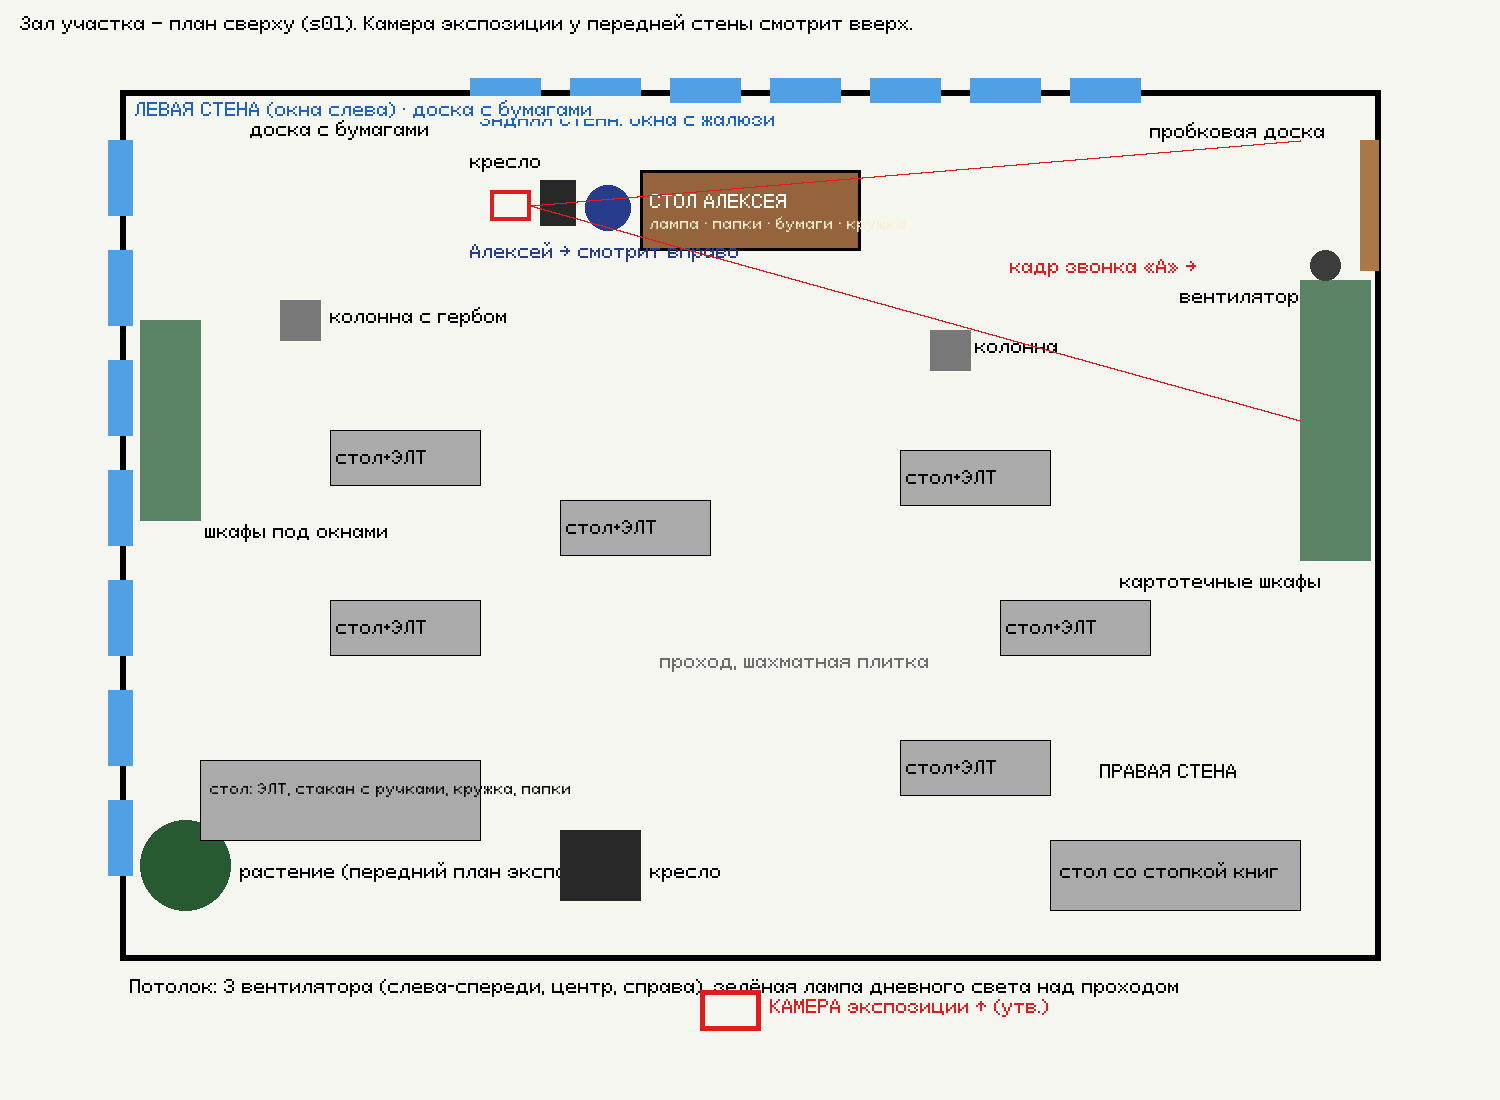
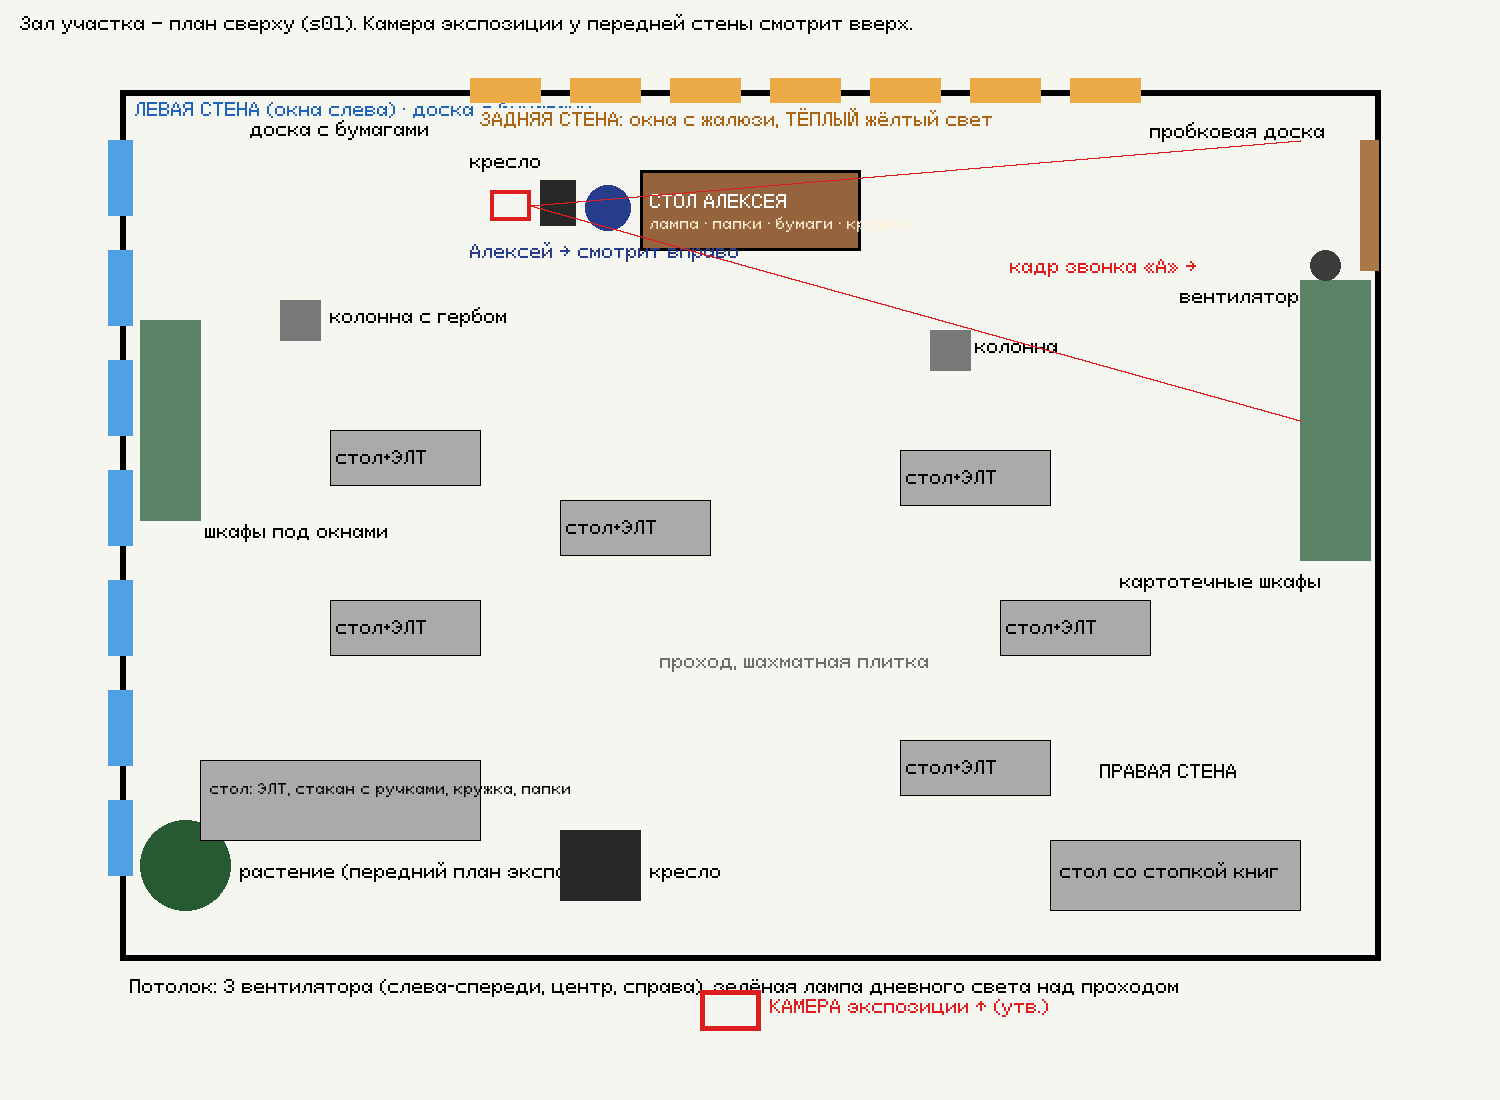
[Э3][s01] plan: warm back-wall windows (ref 12); call frame background C

Changed region(s): [[0.3067, 0.0618, 0.7667, 0.1236]]

diff --git a/art/refs/s01_precinct/plan/plan.md b/art/refs/s01_precinct/plan/plan.md
@@ -4,7 +4,7 @@
 | Зона | Что там |
 |---|---|
 | Левая стена | большие окна с жалюзи (дождь, холодный голубой свет), под окнами картотечные шкафы, колонна с полицейским гербом, большое растение у передней части |
-| Задняя стена | окна с жалюзи; слева доска с бумагами; у стены — **стол Алексея** (ближе к центру); правее — колонна |
+| Задняя стена | окна с жалюзи; слева доска с бумагами; у стены — **стол Алексея** (ближе к центру); **справа от Алексея (в экспозиции) — окна с ТЁПЛЫМ жёлтым светом города**, между ними колонна (реф `12_warm_back_windows.png`) |
 | Стол Алексея | Алексей сидит у ЛЕВОГО конца, кресло тёмное с высокой спинкой, смотрит ВПРАВО; на столе (вид из экспозиции): лампа, стопка папок, бумаги, кружка. Детальная раскладка сверху — `art/sources/s01/desk3_v1_a.png` |
 | Правая стена | пробковая доска с бумагами, высокие серо-зелёные картотечные шкафы, маленький настольный вентилятор на шкафу |
 | Центр | ряды столов с выключенными ЭЛТ-мониторами и офисными креслами; проход с шахматной плиткой к столу Алексея |
@@ -12,7 +12,7 @@
 | Потолок | 3 потолочных вентилятора, зелёная лампа дневного света над проходом, выключенные плафоны |
 | Передняя стена | не показана |
 
-Цвет окон: в экспозиции за задними окнами тёплые огни города; по решению пользователя в новых ракурсах окна — холодные голубые.
+Цвет окон: ЛЕВАЯ стена — холодные голубые (дождь); ЗАДНЯЯ стена за/рядом со столом Алексея — тёплые жёлтые огни города (подтвердила пользователь, реф 12). В кадре звонка они слева от Алексея.
 
 ## Камеры (утверждённые / в работе)
 - Экспозиция — от передней стены на заднюю (утв.).

diff --git a/docs/STATUS.md b/docs/STATUS.md
@@ -4,7 +4,7 @@ Claude читает этот файл в начале каждой сессии 
 Режим согласования: STRICT
 Текущий этап: Э2 стиль принят (G2) → Э3 s01_precinct: визуал
 Следующий шаг: оценка пользователем (вентилятор, свет, стол, крупный план дела, вариант пикселизации) → крупные планы газеты и записки
-Ждёт согласования: кадр звонка — слой v2_a, пиксель 4x/3x, размытый фон A/B (art/drafts/s01_call_bg)
+Ждёт согласования: кадр звонка — слой v2_a + фон C (тёплые окна), пиксель 4x/3x
 
 ## Окружение
 Godot: 4.7.2, путь: /Applications/Godot.app/Contents/MacOS/Godot
@@ -17,6 +17,7 @@ Codex CLI: 0.169.0 (Node 26 LTS через nvm), вход: да (ChatGPT)
 | s01_precinct | дизайн DRAFT | ТЗ DRAFT; bg_exposition (v1_c), bg_desk (по рефу 05), 3 документа-спрайта APPROVED; крупные планы TODO | экспозиция | экспозиция — черновик (речь, маркеры, пыль, кнопка); стол — заготовка | — |
 
 ## Последние действия (последние 5, новые сверху)
+- 2026-11-18 Э3: план зала исправлен — окна задней стены у стола Алексея тёплые жёлтые (реф 12); фон C для кадра звонка
 - 2026-11-18 Э3: кадр звонка собираем слоями: сначала «Алексей + стол» (вырезка, 2x), потом комната отдельно
 - 2026-11-18 Э3: правило «план локации + развёртка стен» (WORKFLOW §3 0а, AGENTS); план зала s01 (art/refs/s01_precinct/plan/); кадр «А» v4 (новый вид зала)
 - 2026-11-18 Э3: задание меняется без уведомления; кнопка действия — прежний стиль без обводки; «Ответить на звонок» у телефона и подрагивает; Codex рисует кадр звонка (А)

diff --git a/art/refs/s01_precinct/notes.md b/art/refs/s01_precinct/notes.md
@@ -15,5 +15,6 @@
 | 09_back_view_composition.webp | **Композиция кадра звонка (пользователь)**: камера строго за спиной сидящего, спинка кресла и затылок по центру, стол перед ним; пометки: трубка у уха с проводом к аппарату слева, предметы справа | Интерьер, предметы, свет — наши |
 | 10_alexei_corner.png | **Пользователь**: где сидит Алексей — в дальнем углу зала экспозиции | — |
 | 11_back_view_angle.webp | **Ракурс кадра звонка (пользователь)**: камера горизонтально на уровне плеч сидящего, кресло крупно и обрезано снизу, стол почти ребром | Только ракурс |
+| 12_warm_back_windows.png | **Пользователь**: окна задней стены рядом со столом Алексея — тёплые жёлтые; колонна между ними. В кадре звонка они слева от Алексея | — |
 
 Пожелания пользователя: в участке темно, мало света; экспозиция сбоку (как 03), Алексей вдалеке за столом в полутьме, диалоги снизу, кнопка «Изучать документы» → вид на стол (как 01) с телефоном 1998 года и 3 документами. Текст по-русски, названия/надписи «в мире» — по-английски. Атмосфера/визуал — максимально к `_style/` (Final Run).
